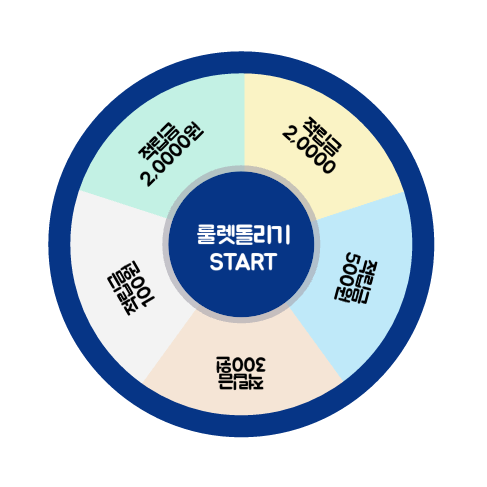
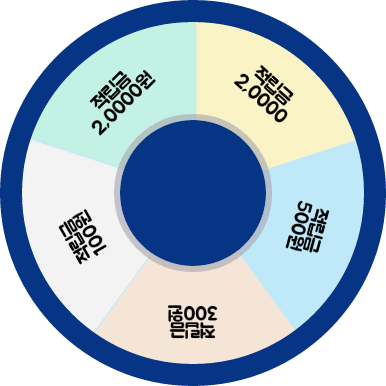
update Design

diff --git a/dist/assets/js/main.js b/dist/assets/js/main.js
@@ -840,6 +840,16 @@ eval("__webpack_require__.r(__webpack_exports__);\n/* harmony export */ __webpac
 
 /***/ }),
 
+/***/ "./src/assets/img/rulletStartButton.svg":
+/*!**********************************************!*\
+  !*** ./src/assets/img/rulletStartButton.svg ***!
+  \**********************************************/
+/***/ ((__unused_webpack_module, __webpack_exports__, __webpack_require__) => {
+
+eval("__webpack_require__.r(__webpack_exports__);\n/* harmony export */ __webpack_require__.d(__webpack_exports__, {\n/* harmony export */   \"default\": () => (__WEBPACK_DEFAULT_EXPORT__)\n/* harmony export */ });\n/* harmony default export */ const __WEBPACK_DEFAULT_EXPORT__ = (__webpack_require__.p + \"assets/img/rulletStartButton.svg\");\n\n//# sourceURL=webpack://edu03/./src/assets/img/rulletStartButton.svg?");
+
+/***/ }),
+
 /***/ "./src/assets/img/shop.png":
 /*!*********************************!*\
   !*** ./src/assets/img/shop.png ***!
@@ -1236,7 +1246,7 @@ eval("__webpack_require__.r(__webpack_exports__);\n// extracted by mini-css-extr
   \*******************************/
 /***/ ((__unused_webpack_module, __webpack_exports__, __webpack_require__) => {
 
-eval("__webpack_require__.r(__webpack_exports__);\n/* harmony import */ var flowbite__WEBPACK_IMPORTED_MODULE_0__ = __webpack_require__(/*! flowbite */ \"./node_modules/flowbite/lib/esm/index.js\");\n/* harmony import */ var _css_main_css__WEBPACK_IMPORTED_MODULE_1__ = __webpack_require__(/*! ../css/main.css */ \"./src/assets/css/main.css\");\n/* harmony import */ var swiper_bundle__WEBPACK_IMPORTED_MODULE_2__ = __webpack_require__(/*! swiper/bundle */ \"./node_modules/swiper/swiper-bundle.mjs\");\n/* harmony import */ var swiper_css_bundle__WEBPACK_IMPORTED_MODULE_3__ = __webpack_require__(/*! swiper/css/bundle */ \"./node_modules/swiper/swiper-bundle.css\");\n/* harmony import */ var _img_logo_svg__WEBPACK_IMPORTED_MODULE_4__ = __webpack_require__(/*! ../img/logo.svg */ \"./src/assets/img/logo.svg\");\n/* harmony import */ var _img_bannerMain_svg__WEBPACK_IMPORTED_MODULE_5__ = __webpack_require__(/*! ../img/bannerMain.svg */ \"./src/assets/img/bannerMain.svg\");\n/* harmony import */ var _img_bannerMain1_png__WEBPACK_IMPORTED_MODULE_6__ = __webpack_require__(/*! ../img/bannerMain1.png */ \"./src/assets/img/bannerMain1.png\");\n/* harmony import */ var _img_a_png__WEBPACK_IMPORTED_MODULE_7__ = __webpack_require__(/*! ../img/a.png */ \"./src/assets/img/a.png\");\n/* harmony import */ var _img_b_png__WEBPACK_IMPORTED_MODULE_8__ = __webpack_require__(/*! ../img/b.png */ \"./src/assets/img/b.png\");\n/* harmony import */ var _img_c_png__WEBPACK_IMPORTED_MODULE_9__ = __webpack_require__(/*! ../img/c.png */ \"./src/assets/img/c.png\");\n/* harmony import */ var _img_d_png__WEBPACK_IMPORTED_MODULE_10__ = __webpack_require__(/*! ../img/d.png */ \"./src/assets/img/d.png\");\n/* harmony import */ var _img_e_png__WEBPACK_IMPORTED_MODULE_11__ = __webpack_require__(/*! ../img/e.png */ \"./src/assets/img/e.png\");\n/* harmony import */ var _img_f_png__WEBPACK_IMPORTED_MODULE_12__ = __webpack_require__(/*! ../img/f.png */ \"./src/assets/img/f.png\");\n/* harmony import */ var _img_g_png__WEBPACK_IMPORTED_MODULE_13__ = __webpack_require__(/*! ../img/g.png */ \"./src/assets/img/g.png\");\n/* harmony import */ var _img_h_png__WEBPACK_IMPORTED_MODULE_14__ = __webpack_require__(/*! ../img/h.png */ \"./src/assets/img/h.png\");\n/* harmony import */ var _img_i_png__WEBPACK_IMPORTED_MODULE_15__ = __webpack_require__(/*! ../img/i.png */ \"./src/assets/img/i.png\");\n/* harmony import */ var _img_j_png__WEBPACK_IMPORTED_MODULE_16__ = __webpack_require__(/*! ../img/j.png */ \"./src/assets/img/j.png\");\n/* harmony import */ var _img_shop_png__WEBPACK_IMPORTED_MODULE_17__ = __webpack_require__(/*! ../img/shop.png */ \"./src/assets/img/shop.png\");\n/* harmony import */ var _img_card_png__WEBPACK_IMPORTED_MODULE_18__ = __webpack_require__(/*! ../img/card.png */ \"./src/assets/img/card.png\");\n/* harmony import */ var _img_rounded_dollar_png__WEBPACK_IMPORTED_MODULE_19__ = __webpack_require__(/*! ../img/rounded-dollar.png */ \"./src/assets/img/rounded-dollar.png\");\n/* harmony import */ var _img_rounded_dollar_b_png__WEBPACK_IMPORTED_MODULE_20__ = __webpack_require__(/*! ../img/rounded-dollar_b.png */ \"./src/assets/img/rounded-dollar_b.png\");\n/* harmony import */ var _img_evnet_b_png__WEBPACK_IMPORTED_MODULE_21__ = __webpack_require__(/*! ../img/evnet_b.png */ \"./src/assets/img/evnet_b.png\");\n/* harmony import */ var _img_Organetopshape_png__WEBPACK_IMPORTED_MODULE_22__ = __webpack_require__(/*! ../img/Organetopshape.png */ \"./src/assets/img/Organetopshape.png\");\n/* harmony import */ var _img_completeimg_png__WEBPACK_IMPORTED_MODULE_23__ = __webpack_require__(/*! ../img/completeimg.png */ \"./src/assets/img/completeimg.png\");\n/* harmony import */ var _img_coinUsdtTRX_png__WEBPACK_IMPORTED_MODULE_24__ = __webpack_require__(/*! ../img/coinUsdtTRX.png */ \"./src/assets/img/coinUsdtTRX.png\");\n/* harmony import */ var _img_coinTronTRX_png__WEBPACK_IMPORTED_MODULE_25__ = __webpack_require__(/*! ../img/coinTronTRX.png */ \"./src/assets/img/coinTronTRX.png\");\n/* harmony import */ var _img_eventCheckAttendace_svg__WEBPACK_IMPORTED_MODULE_26__ = __webpack_require__(/*! ../img/eventCheckAttendace.svg */ \"./src/assets/img/eventCheckAttendace.svg\");\n/* harmony import */ var _img_eventCheckAttendaceTitle_png__WEBPACK_IMPORTED_MODULE_27__ = __webpack_require__(/*! ../img/eventCheckAttendaceTitle.png */ \"./src/assets/img/eventCheckAttendaceTitle.png\");\n/* harmony import */ var _img_eventCheckAttendaceBenfit_png__WEBPACK_IMPORTED_MODULE_28__ = __webpack_require__(/*! ../img/eventCheckAttendaceBenfit.png */ \"./src/assets/img/eventCheckAttendaceBenfit.png\");\n/* harmony import */ var _img_eventCheckAttendaceButton_png__WEBPACK_IMPORTED_MODULE_29__ = __webpack_require__(/*! ../img/eventCheckAttendaceButton.png */ \"./src/assets/img/eventCheckAttendaceButton.png\");\n/* harmony import */ var _img_eventrulletTitle_png__WEBPACK_IMPORTED_MODULE_30__ = __webpack_require__(/*! ../img/eventrulletTitle.png */ \"./src/assets/img/eventrulletTitle.png\");\n/* harmony import */ var _img_eventrulletimg_png__WEBPACK_IMPORTED_MODULE_31__ = __webpack_require__(/*! ../img/eventrulletimg.png */ \"./src/assets/img/eventrulletimg.png\");\n// Import Flowbite - Tailwindcss\n\n\n\n// Import Our CSS\n\n\n// core version + navigation, pagination modules:\n\n// import Swiper bundle with all modules installed\n\n\n// import styles bundle\n\n\n// IMG IMPORT\n// Main Image Assest\n\n\n\n\n\n\n\n\n\n\n\n\n\n\n\n\n\n\n\n\n\n\n\n\n// Login Image Assets\n\n\n\n\n// Coin Image\n\n\n\n// Event Image\n\n\n\n\n\n\n\n\n// init Swiper:\nvar swiper = new swiper_bundle__WEBPACK_IMPORTED_MODULE_2__[\"default\"](\".cardSwiper\", {\n  slidesPerView: 1,\n  spaceBetween: 10,\n  pagination: {\n    el: \".swiper-pagination\",\n  },\n});\n\nvar swiper = new swiper_bundle__WEBPACK_IMPORTED_MODULE_2__[\"default\"](\".mySwiper\", {\n  spaceBetween: 10,\n  slidesPerView: 4,\n  freeMode: true,\n  watchSlidesProgress: true,\n});\nvar swiper2 = new swiper_bundle__WEBPACK_IMPORTED_MODULE_2__[\"default\"](\".mySwiper2\", {\n  spaceBetween: 10,\n  navigation: {\n    nextEl: \".swiper-button-next\",\n    prevEl: \".swiper-button-prev\",\n  },\n  thumbs: {\n    swiper: swiper,\n  },\n});\n\n// Bottom Sheet\n\nconst showModalBtn = document.querySelector(\".show-modal\");\nconst bottomSheet = document.querySelector(\".bottom-sheet\");\nconst sheetOverlay = bottomSheet.querySelector(\".sheet-overlay\");\nconst sheetContent = bottomSheet.querySelector(\".content\");\nconst dragIcon = bottomSheet.querySelector(\".drag-icon\");\n// Global variables for tracking drag events\nlet isDragging = false,\n  startY,\n  startHeight;\n// Show the bottom sheet, hide body vertical scrollbar, and call updateSheetHeight\nconst showBottomSheet = () => {\n  bottomSheet.classList.add(\"show\");\n  document.body.style.overflowY = \"hidden\";\n  updateSheetHeight(50);\n};\nconst updateSheetHeight = (height) => {\n  sheetContent.style.height = `${height}vh`; //updates the height of the sheet content\n  // Toggles the fullscreen class to bottomSheet if the height is equal to 100\n  bottomSheet.classList.toggle(\"fullscreen\", height === 100);\n};\n// Hide the bottom sheet and show body vertical scrollbar\nconst hideBottomSheet = () => {\n  bottomSheet.classList.remove(\"show\");\n  document.body.style.overflowY = \"auto\";\n};\n// Sets initial drag position, sheetContent height and add dragging class to the bottom sheet\nconst dragStart = (e) => {\n  isDragging = true;\n  startY = e.pageY || e.touches?.[0].pageY;\n  startHeight = parseInt(sheetContent.style.height);\n  bottomSheet.classList.add(\"dragging\");\n};\n// Calculates the new height for the sheet content and call the updateSheetHeight function\nconst dragging = (e) => {\n  if (!isDragging) return;\n  const delta = startY - (e.pageY || e.touches?.[0].pageY);\n  const newHeight = startHeight + (delta / window.innerHeight) * 100;\n  updateSheetHeight(newHeight);\n};\n// Determines whether to hide, set to fullscreen, or set to default\n// height based on the current height of the sheet content\nconst dragStop = () => {\n  isDragging = false;\n  bottomSheet.classList.remove(\"dragging\");\n  const sheetHeight = parseInt(sheetContent.style.height);\n  sheetHeight < 25\n    ? hideBottomSheet()\n    : sheetHeight > 75\n    ? updateSheetHeight(100)\n    : updateSheetHeight(50);\n};\ndragIcon.addEventListener(\"mousedown\", dragStart);\ndocument.addEventListener(\"mousemove\", dragging);\ndocument.addEventListener(\"mouseup\", dragStop);\ndragIcon.addEventListener(\"touchstart\", dragStart);\ndocument.addEventListener(\"touchmove\", dragging);\ndocument.addEventListener(\"touchend\", dragStop);\nsheetOverlay.addEventListener(\"click\", hideBottomSheet);\nshowModalBtn.addEventListener(\"click\", showBottomSheet);\n\n// Rullet Event\n\n\n//# sourceURL=webpack://edu03/./src/assets/js/main.js?");
+eval("__webpack_require__.r(__webpack_exports__);\n/* harmony import */ var flowbite__WEBPACK_IMPORTED_MODULE_0__ = __webpack_require__(/*! flowbite */ \"./node_modules/flowbite/lib/esm/index.js\");\n/* harmony import */ var _css_main_css__WEBPACK_IMPORTED_MODULE_1__ = __webpack_require__(/*! ../css/main.css */ \"./src/assets/css/main.css\");\n/* harmony import */ var swiper_bundle__WEBPACK_IMPORTED_MODULE_2__ = __webpack_require__(/*! swiper/bundle */ \"./node_modules/swiper/swiper-bundle.mjs\");\n/* harmony import */ var swiper_css_bundle__WEBPACK_IMPORTED_MODULE_3__ = __webpack_require__(/*! swiper/css/bundle */ \"./node_modules/swiper/swiper-bundle.css\");\n/* harmony import */ var _img_logo_svg__WEBPACK_IMPORTED_MODULE_4__ = __webpack_require__(/*! ../img/logo.svg */ \"./src/assets/img/logo.svg\");\n/* harmony import */ var _img_bannerMain_svg__WEBPACK_IMPORTED_MODULE_5__ = __webpack_require__(/*! ../img/bannerMain.svg */ \"./src/assets/img/bannerMain.svg\");\n/* harmony import */ var _img_bannerMain1_png__WEBPACK_IMPORTED_MODULE_6__ = __webpack_require__(/*! ../img/bannerMain1.png */ \"./src/assets/img/bannerMain1.png\");\n/* harmony import */ var _img_a_png__WEBPACK_IMPORTED_MODULE_7__ = __webpack_require__(/*! ../img/a.png */ \"./src/assets/img/a.png\");\n/* harmony import */ var _img_b_png__WEBPACK_IMPORTED_MODULE_8__ = __webpack_require__(/*! ../img/b.png */ \"./src/assets/img/b.png\");\n/* harmony import */ var _img_c_png__WEBPACK_IMPORTED_MODULE_9__ = __webpack_require__(/*! ../img/c.png */ \"./src/assets/img/c.png\");\n/* harmony import */ var _img_d_png__WEBPACK_IMPORTED_MODULE_10__ = __webpack_require__(/*! ../img/d.png */ \"./src/assets/img/d.png\");\n/* harmony import */ var _img_e_png__WEBPACK_IMPORTED_MODULE_11__ = __webpack_require__(/*! ../img/e.png */ \"./src/assets/img/e.png\");\n/* harmony import */ var _img_f_png__WEBPACK_IMPORTED_MODULE_12__ = __webpack_require__(/*! ../img/f.png */ \"./src/assets/img/f.png\");\n/* harmony import */ var _img_g_png__WEBPACK_IMPORTED_MODULE_13__ = __webpack_require__(/*! ../img/g.png */ \"./src/assets/img/g.png\");\n/* harmony import */ var _img_h_png__WEBPACK_IMPORTED_MODULE_14__ = __webpack_require__(/*! ../img/h.png */ \"./src/assets/img/h.png\");\n/* harmony import */ var _img_i_png__WEBPACK_IMPORTED_MODULE_15__ = __webpack_require__(/*! ../img/i.png */ \"./src/assets/img/i.png\");\n/* harmony import */ var _img_j_png__WEBPACK_IMPORTED_MODULE_16__ = __webpack_require__(/*! ../img/j.png */ \"./src/assets/img/j.png\");\n/* harmony import */ var _img_shop_png__WEBPACK_IMPORTED_MODULE_17__ = __webpack_require__(/*! ../img/shop.png */ \"./src/assets/img/shop.png\");\n/* harmony import */ var _img_card_png__WEBPACK_IMPORTED_MODULE_18__ = __webpack_require__(/*! ../img/card.png */ \"./src/assets/img/card.png\");\n/* harmony import */ var _img_rounded_dollar_png__WEBPACK_IMPORTED_MODULE_19__ = __webpack_require__(/*! ../img/rounded-dollar.png */ \"./src/assets/img/rounded-dollar.png\");\n/* harmony import */ var _img_rounded_dollar_b_png__WEBPACK_IMPORTED_MODULE_20__ = __webpack_require__(/*! ../img/rounded-dollar_b.png */ \"./src/assets/img/rounded-dollar_b.png\");\n/* harmony import */ var _img_evnet_b_png__WEBPACK_IMPORTED_MODULE_21__ = __webpack_require__(/*! ../img/evnet_b.png */ \"./src/assets/img/evnet_b.png\");\n/* harmony import */ var _img_Organetopshape_png__WEBPACK_IMPORTED_MODULE_22__ = __webpack_require__(/*! ../img/Organetopshape.png */ \"./src/assets/img/Organetopshape.png\");\n/* harmony import */ var _img_completeimg_png__WEBPACK_IMPORTED_MODULE_23__ = __webpack_require__(/*! ../img/completeimg.png */ \"./src/assets/img/completeimg.png\");\n/* harmony import */ var _img_coinUsdtTRX_png__WEBPACK_IMPORTED_MODULE_24__ = __webpack_require__(/*! ../img/coinUsdtTRX.png */ \"./src/assets/img/coinUsdtTRX.png\");\n/* harmony import */ var _img_coinTronTRX_png__WEBPACK_IMPORTED_MODULE_25__ = __webpack_require__(/*! ../img/coinTronTRX.png */ \"./src/assets/img/coinTronTRX.png\");\n/* harmony import */ var _img_eventCheckAttendace_svg__WEBPACK_IMPORTED_MODULE_26__ = __webpack_require__(/*! ../img/eventCheckAttendace.svg */ \"./src/assets/img/eventCheckAttendace.svg\");\n/* harmony import */ var _img_eventCheckAttendaceTitle_png__WEBPACK_IMPORTED_MODULE_27__ = __webpack_require__(/*! ../img/eventCheckAttendaceTitle.png */ \"./src/assets/img/eventCheckAttendaceTitle.png\");\n/* harmony import */ var _img_eventCheckAttendaceBenfit_png__WEBPACK_IMPORTED_MODULE_28__ = __webpack_require__(/*! ../img/eventCheckAttendaceBenfit.png */ \"./src/assets/img/eventCheckAttendaceBenfit.png\");\n/* harmony import */ var _img_eventCheckAttendaceButton_png__WEBPACK_IMPORTED_MODULE_29__ = __webpack_require__(/*! ../img/eventCheckAttendaceButton.png */ \"./src/assets/img/eventCheckAttendaceButton.png\");\n/* harmony import */ var _img_eventrulletTitle_png__WEBPACK_IMPORTED_MODULE_30__ = __webpack_require__(/*! ../img/eventrulletTitle.png */ \"./src/assets/img/eventrulletTitle.png\");\n/* harmony import */ var _img_eventrulletimg_png__WEBPACK_IMPORTED_MODULE_31__ = __webpack_require__(/*! ../img/eventrulletimg.png */ \"./src/assets/img/eventrulletimg.png\");\n/* harmony import */ var _img_rulletStartButton_svg__WEBPACK_IMPORTED_MODULE_32__ = __webpack_require__(/*! ../img/rulletStartButton.svg */ \"./src/assets/img/rulletStartButton.svg\");\n// Import Flowbite - Tailwindcss\n\n\n\n// Import Our CSS\n\n\n// core version + navigation, pagination modules:\n\n// import Swiper bundle with all modules installed\n\n\n// import styles bundle\n\n\n// IMG IMPORT\n// Main Image Assest\n\n\n\n\n\n\n\n\n\n\n\n\n\n\n\n\n\n\n\n\n\n\n\n\n// Login Image Assets\n\n\n\n\n// Coin Image\n\n\n\n// Event Image\n\n\n\n\n\n\n\n\n\n// init Swiper:\nvar swiper = new swiper_bundle__WEBPACK_IMPORTED_MODULE_2__[\"default\"](\".cardSwiper\", {\n  slidesPerView: 1,\n  spaceBetween: 10,\n  pagination: {\n    el: \".swiper-pagination\",\n  },\n});\n\nvar swiper = new swiper_bundle__WEBPACK_IMPORTED_MODULE_2__[\"default\"](\".mySwiper\", {\n  spaceBetween: 10,\n  slidesPerView: 4,\n  freeMode: true,\n  watchSlidesProgress: true,\n});\nvar swiper2 = new swiper_bundle__WEBPACK_IMPORTED_MODULE_2__[\"default\"](\".mySwiper2\", {\n  spaceBetween: 10,\n  navigation: {\n    nextEl: \".swiper-button-next\",\n    prevEl: \".swiper-button-prev\",\n  },\n  thumbs: {\n    swiper: swiper,\n  },\n});\n\n// Bottom Sheet\n\nconst showModalBtn = document.querySelector(\".show-modal\");\nconst bottomSheet = document.querySelector(\".bottom-sheet\");\nconst sheetOverlay = bottomSheet.querySelector(\".sheet-overlay\");\nconst sheetContent = bottomSheet.querySelector(\".content\");\nconst dragIcon = bottomSheet.querySelector(\".drag-icon\");\n// Global variables for tracking drag events\nlet isDragging = false,\n  startY,\n  startHeight;\n// Show the bottom sheet, hide body vertical scrollbar, and call updateSheetHeight\nconst showBottomSheet = () => {\n  bottomSheet.classList.add(\"show\");\n  document.body.style.overflowY = \"hidden\";\n  updateSheetHeight(50);\n};\nconst updateSheetHeight = (height) => {\n  sheetContent.style.height = `${height}vh`; //updates the height of the sheet content\n  // Toggles the fullscreen class to bottomSheet if the height is equal to 100\n  bottomSheet.classList.toggle(\"fullscreen\", height === 100);\n};\n// Hide the bottom sheet and show body vertical scrollbar\nconst hideBottomSheet = () => {\n  bottomSheet.classList.remove(\"show\");\n  document.body.style.overflowY = \"auto\";\n};\n// Sets initial drag position, sheetContent height and add dragging class to the bottom sheet\nconst dragStart = (e) => {\n  isDragging = true;\n  startY = e.pageY || e.touches?.[0].pageY;\n  startHeight = parseInt(sheetContent.style.height);\n  bottomSheet.classList.add(\"dragging\");\n};\n// Calculates the new height for the sheet content and call the updateSheetHeight function\nconst dragging = (e) => {\n  if (!isDragging) return;\n  const delta = startY - (e.pageY || e.touches?.[0].pageY);\n  const newHeight = startHeight + (delta / window.innerHeight) * 100;\n  updateSheetHeight(newHeight);\n};\n// Determines whether to hide, set to fullscreen, or set to default\n// height based on the current height of the sheet content\nconst dragStop = () => {\n  isDragging = false;\n  bottomSheet.classList.remove(\"dragging\");\n  const sheetHeight = parseInt(sheetContent.style.height);\n  sheetHeight < 25\n    ? hideBottomSheet()\n    : sheetHeight > 75\n    ? updateSheetHeight(100)\n    : updateSheetHeight(50);\n};\ndragIcon.addEventListener(\"mousedown\", dragStart);\ndocument.addEventListener(\"mousemove\", dragging);\ndocument.addEventListener(\"mouseup\", dragStop);\ndragIcon.addEventListener(\"touchstart\", dragStart);\ndocument.addEventListener(\"touchmove\", dragging);\ndocument.addEventListener(\"touchend\", dragStop);\nsheetOverlay.addEventListener(\"click\", hideBottomSheet);\nshowModalBtn.addEventListener(\"click\", showBottomSheet);\n\n// Rullet Event\n\n\n//# sourceURL=webpack://edu03/./src/assets/js/main.js?");
 
 /***/ }),
 

diff --git a/dist/assets/js/rullet.js b/dist/assets/js/rullet.js
@@ -15,7 +15,7 @@
   \*********************************/
 /***/ (() => {
 
-eval("const btn = document.querySelector(\".rullet__btn\");\r\nconst panel = document.querySelector(\".rullet__watch\");\r\n\n\n//# sourceURL=webpack://edu03/./src/assets/js/rullet.js?");
+eval("var rolLength = 5; // 해당 룰렛 콘텐츠 갯수\r\nvar setNum; // 랜덤숫자 담을 변수\r\nvar hiddenInput = document.createElement(\"input\");\r\nhiddenInput.className = \"hidden-input\";\r\n\r\n//랜덤숫자부여\r\nconst rRandom = () => {\r\n  var min = Math.ceil(0);\r\n  var max = Math.floor(rolLength - 1);\r\n  return Math.floor(Math.random() * (max - min)) + min;\r\n};\r\n\r\nconst rRotate = () => {\r\n  var panel = document.querySelector(\".rouletter-wacu\");\r\n  var btn = document.querySelector(\".rouletter-btn\");\r\n  var deg = [];\r\n  // 룰렛 각도 설정(rolLength = 6)\r\n  for (var i = 1, len = rolLength; i <= len; i++) {\r\n    deg.push((360 / len) * i);\r\n  }\r\n\r\n  // 랜덤 생성된 숫자를 히든 인풋에 넣기\r\n  var num = 0;\r\n  document.body.append(hiddenInput);\r\n  setNum = hiddenInput.value = rRandom();\r\n\r\n  // 애니설정\r\n  var ani = setInterval(() => {\r\n    num++;\r\n    panel.style.transform = \"rotate(\" + 360 * num + \"deg)\";\r\n    btn.disabled = true; //button,input\r\n    btn.style.pointerEvents = \"none\"; //a 태그\r\n\r\n    // 총 50에 다달했을때, 즉 마지막 바퀴를 돌고나서\r\n    if (num === 50) {\r\n      clearInterval(ani);\r\n      panel.style.transform = `rotate(${deg[setNum]}deg)`;\r\n    }\r\n  }, 50);\r\n};\r\n\r\n// 정해진 alert띄우기, custom modal등\r\nconst rLayerPopup = (num) => {\r\n  switch (num) {\r\n    case 1:\r\n      alert(\"당첨!! 스타벅스 아메리카노\");\r\n      break;\r\n    case 3:\r\n      alert(\"당첨!! 햄버거 세트 교환권\");\r\n      break;\r\n    case 5:\r\n      alert(\"당첨!! CU 3,000원 상품권\");\r\n      break;\r\n    default:\r\n      alert(\"꽝! 다음기회에\");\r\n  }\r\n};\r\n\r\n// reset\r\nconst rReset = (ele) => {\r\n  setTimeout(() => {\r\n    ele.disabled = false;\r\n    ele.style.pointerEvents = \"auto\";\r\n    rLayerPopup(setNum);\r\n    hiddenInput.remove();\r\n  }, 5500);\r\n};\r\n\r\n// 룰렛 이벤트 클릭 버튼\r\ndocument.addEventListener(\"click\", function (e) {\r\n  var target = e.target;\r\n  if (target.tagName === \"BUTTON\") {\r\n    rRotate();\r\n    rReset(target);\r\n  }\r\n});\r\n\r\n// roulette default\r\ndocument.getElementById(\"app\").innerHTML = `\r\n<div class=\"rouletter\">\r\n    <div class=\"rouletter-bg\">\r\n        <div class=\"rouletter-wacu\"></div>\r\n    </div>\r\n    <div class=\"rouletter-arrow\"></div>\r\n    <button class=\"rouletter-btn\">start</button>\r\n</div>\r\n`;\r\n\n\n//# sourceURL=webpack://edu03/./src/assets/js/rullet.js?");
 
 /***/ })
 

diff --git a/src/assets/js/rullet.js b/src/assets/js/rullet.js
@@ -1,2 +1,87 @@
-const btn = document.querySelector(".rullet__btn");
-const panel = document.querySelector(".rullet__watch");
+var rolLength = 5; // 해당 룰렛 콘텐츠 갯수
+var setNum; // 랜덤숫자 담을 변수
+var hiddenInput = document.createElement("input");
+hiddenInput.className = "hidden-input";
+
+//랜덤숫자부여
+const rRandom = () => {
+  var min = Math.ceil(0);
+  var max = Math.floor(rolLength - 1);
+  return Math.floor(Math.random() * (max - min)) + min;
+};
+
+const rRotate = () => {
+  var panel = document.querySelector(".rouletter-wacu");
+  var btn = document.querySelector(".rouletter-btn");
+  var deg = [];
+  // 룰렛 각도 설정(rolLength = 6)
+  for (var i = 1, len = rolLength; i <= len; i++) {
+    deg.push((360 / len) * i);
+  }
+
+  // 랜덤 생성된 숫자를 히든 인풋에 넣기
+  var num = 0;
+  document.body.append(hiddenInput);
+  setNum = hiddenInput.value = rRandom();
+
+  // 애니설정
+  var ani = setInterval(() => {
+    num++;
+    panel.style.transform = "rotate(" + 360 * num + "deg)";
+    btn.disabled = true; //button,input
+    btn.style.pointerEvents = "none"; //a 태그
+
+    // 총 50에 다달했을때, 즉 마지막 바퀴를 돌고나서
+    if (num === 50) {
+      clearInterval(ani);
+      panel.style.transform = `rotate(${deg[setNum]}deg)`;
+    }
+  }, 50);
+};
+
+// 정해진 alert띄우기, custom modal등
+const rLayerPopup = (num) => {
+  switch (num) {
+    case 1:
+      alert("당첨!! 스타벅스 아메리카노");
+      break;
+    case 3:
+      alert("당첨!! 햄버거 세트 교환권");
+      break;
+    case 5:
+      alert("당첨!! CU 3,000원 상품권");
+      break;
+    default:
+      alert("꽝! 다음기회에");
+  }
+};
+
+// reset
+const rReset = (ele) => {
+  setTimeout(() => {
+    ele.disabled = false;
+    ele.style.pointerEvents = "auto";
+    rLayerPopup(setNum);
+    hiddenInput.remove();
+  }, 5500);
+};
+
+// 룰렛 이벤트 클릭 버튼
+document.addEventListener("click", function (e) {
+  var target = e.target;
+  if (target.tagName === "BUTTON") {
+    rRotate();
+    rReset(target);
+  }
+});
+
+// roulette default
+document.getElementById("app").innerHTML = `
+<div class="rouletter">
+    <div class="rouletter-bg">
+        <div class="rouletter-wacu"></div>
+    </div>
+    <div class="rouletter-arrow"></div>
+    <button class="rouletter-btn">start</button>
+</div>
+`;

diff --git a/dist/assets/css/main.css b/dist/assets/css/main.css
@@ -136,20 +136,51 @@
   --tw-text-opacity: 1;
   color: rgb(255 255 255 / var(--tw-text-opacity));
 }
-.on {
-  animation-name: ani;
-  animation-duration: 0.1s;
-  animation-fill-mode: forwards;
-  animation-iteration-count: infinite;
+.rouletter {
+  position: relative;
+  width: 400px;
+  height: 400px;
 }
-@keyframes ani {
-  0% {
-    transform: rotate(0deg);
-    transition-timing-function: ease-out;
-  }
-  100% {
-    transform: rotate(360deg);
-  }
+.rouletter-bg {
+  position: absolute;
+  top: 50%;
+  left: 50%;
+  transform: translate(-50%, -50%);
+  width: 350px;
+  height: 350px;
+  border-radius: 350px;
+  overflow: hidden;
+}
+.rouletter-wacu {
+  width: 100%;
+  height: 100%;
+  background-size: 100%;
+  transform-origin: center;
+  transition-timing-function: ease-in-out;
+  transition: 2s;
+}
+.rouletter-arrow {
+  position: absolute;
+  top: 0;
+  left: 50%;
+  transform: translateX(-50%);
+  width: 1px;
+  height: 1px;
+  border-right: 10px solid transparent;
+  border-left: 10px solid transparent;
+  border-top: 40px solid red;
+  border-bottom: 0px solid transparent;
+}
+.rouletter-btn {
+  position: absolute;
+  top: 50%;
+  left: 50%;
+  transform: translate(-50%, -50%);
+  width: 80px;
+  height: 80px;
+}
+.hidden-input {
+  display: none;
 }
 /*
 ! tailwindcss v3.3.3 | MIT License | https://tailwindcss.com
@@ -966,9 +997,6 @@ input[type="range"]::-ms-fill-lower {
 .mt-1 {
   margin-top: 0.25rem;
 }
-.mt-10 {
-  margin-top: 2.5rem;
-}
 .mt-14 {
   margin-top: 3.5rem;
 }
@@ -1142,6 +1170,9 @@ input[type="range"]::-ms-fill-lower {
 }
 .-translate-x-full {
   --tw-translate-x: -100%;
+  transform: translate(var(--tw-translate-x), var(--tw-translate-y)) rotate(var(--tw-rotate)) skewX(var(--tw-skew-x)) skewY(var(--tw-skew-y)) scaleX(var(--tw-scale-x)) scaleY(var(--tw-scale-y));
+}
+.transform {
   transform: translate(var(--tw-translate-x), var(--tw-translate-y)) rotate(var(--tw-rotate)) skewX(var(--tw-skew-x)) skewY(var(--tw-skew-y)) scaleX(var(--tw-scale-x)) scaleY(var(--tw-scale-y));
 }
 .cursor-pointer {
@@ -1398,8 +1429,14 @@ input[type="range"]::-ms-fill-lower {
 .bg-cover {
   background-size: cover;
 }
+.bg-contain {
+  background-size: contain;
+}
 .bg-left {
   background-position: left;
+}
+.bg-center {
+  background-position: center;
 }
 .bg-no-repeat {
   background-repeat: no-repeat;

diff --git a/src/assets/css/components/rulletEvent.css b/src/assets/css/components/rulletEvent.css
@@ -1,16 +1,47 @@
-.on {
-  animation-name: ani;
-  animation-duration: 0.1s;
-  animation-fill-mode: forwards;
-  animation-iteration-count: infinite;
+.rouletter {
+  position: relative;
+  width: 400px;
+  height: 400px;
+}
+.rouletter-bg {
+  position: absolute;
+  top: 50%;
+  left: 50%;
+  transform: translate(-50%, -50%);
+  width: 350px;
+  height: 350px;
+  border-radius: 350px;
+  overflow: hidden;
+}
+.rouletter-wacu {
+  width: 100%;
+  height: 100%;
+  background-size: 100%;
+  transform-origin: center;
+  transition-timing-function: ease-in-out;
+  transition: 2s;
+}
+.rouletter-arrow {
+  position: absolute;
+  top: 0;
+  left: 50%;
+  transform: translateX(-50%);
+  width: 1px;
+  height: 1px;
+  border-right: 10px solid transparent;
+  border-left: 10px solid transparent;
+  border-top: 40px solid red;
+  border-bottom: 0px solid transparent;
+}
+.rouletter-btn {
+  position: absolute;
+  top: 50%;
+  left: 50%;
+  transform: translate(-50%, -50%);
+  width: 80px;
+  height: 80px;
 }
 
-@keyframes ani {
-  0% {
-    transform: rotate(0deg);
-    transition-timing-function: ease-out;
-  }
-  100% {
-    transform: rotate(360deg);
-  }
+.hidden-input {
+  display: none;
 }

diff --git a/dist/eventRullet.html b/dist/eventRullet.html
@@ -46,18 +46,19 @@
         <div class="w-full flex items-center justify-center">
           <img src="./assets/img/eventrulletTitle.png" alt="" />
         </div>
-        <div class="mt-10">
-          <div>
-            <button
-              class="w-full cursor-pointer rullet__btn flex justify-center items-center"
-            >
-              <img
-                src="./assets/img/eventrulletimg.png"
-                alt=""
-                class="object-center rullet__watch"
-              />
-            </button>
+
+        <div class="rouletter">
+          <div class="rouletter-bg">
+            <div
+              class="rouletter-wacu"
+              style="background-image: url(./assets/img/eventrulletimg.png)"
+            ></div>
           </div>
+
+          <button
+            class="rouletter-btn bg-no-repeat bg-center bg-contain"
+            style="background-image: url(./assets/img/rulletStartButton.svg)"
+          ></button>
         </div>
       </div>
     </div>

diff --git a/src/eventRullet.html b/src/eventRullet.html
@@ -46,18 +46,19 @@
         <div class="w-full flex items-center justify-center">
           <img src="./assets/img/eventrulletTitle.png" alt="" />
         </div>
-        <div class="mt-10">
-          <div>
-            <button
-              class="w-full cursor-pointer rullet__btn flex justify-center items-center"
-            >
-              <img
-                src="./assets/img/eventrulletimg.png"
-                alt=""
-                class="object-center rullet__watch"
-              />
-            </button>
+
+        <div class="rouletter">
+          <div class="rouletter-bg">
+            <div
+              class="rouletter-wacu"
+              style="background-image: url(./assets/img/eventrulletimg.png)"
+            ></div>
           </div>
+
+          <button
+            class="rouletter-btn bg-no-repeat bg-center bg-contain"
+            style="background-image: url(./assets/img/rulletStartButton.svg)"
+          ></button>
         </div>
       </div>
     </div>

diff --git a/src/assets/js/main.js b/src/assets/js/main.js
@@ -56,6 +56,7 @@ import "../img/eventCheckAttendaceBenfit.png";
 import "../img/eventCheckAttendaceButton.png";
 import "../img/eventrulletTitle.png";
 import "../img/eventrulletimg.png";
+import "../img/rulletStartButton.svg";
 
 // init Swiper:
 var swiper = new Swiper(".cardSwiper", {
